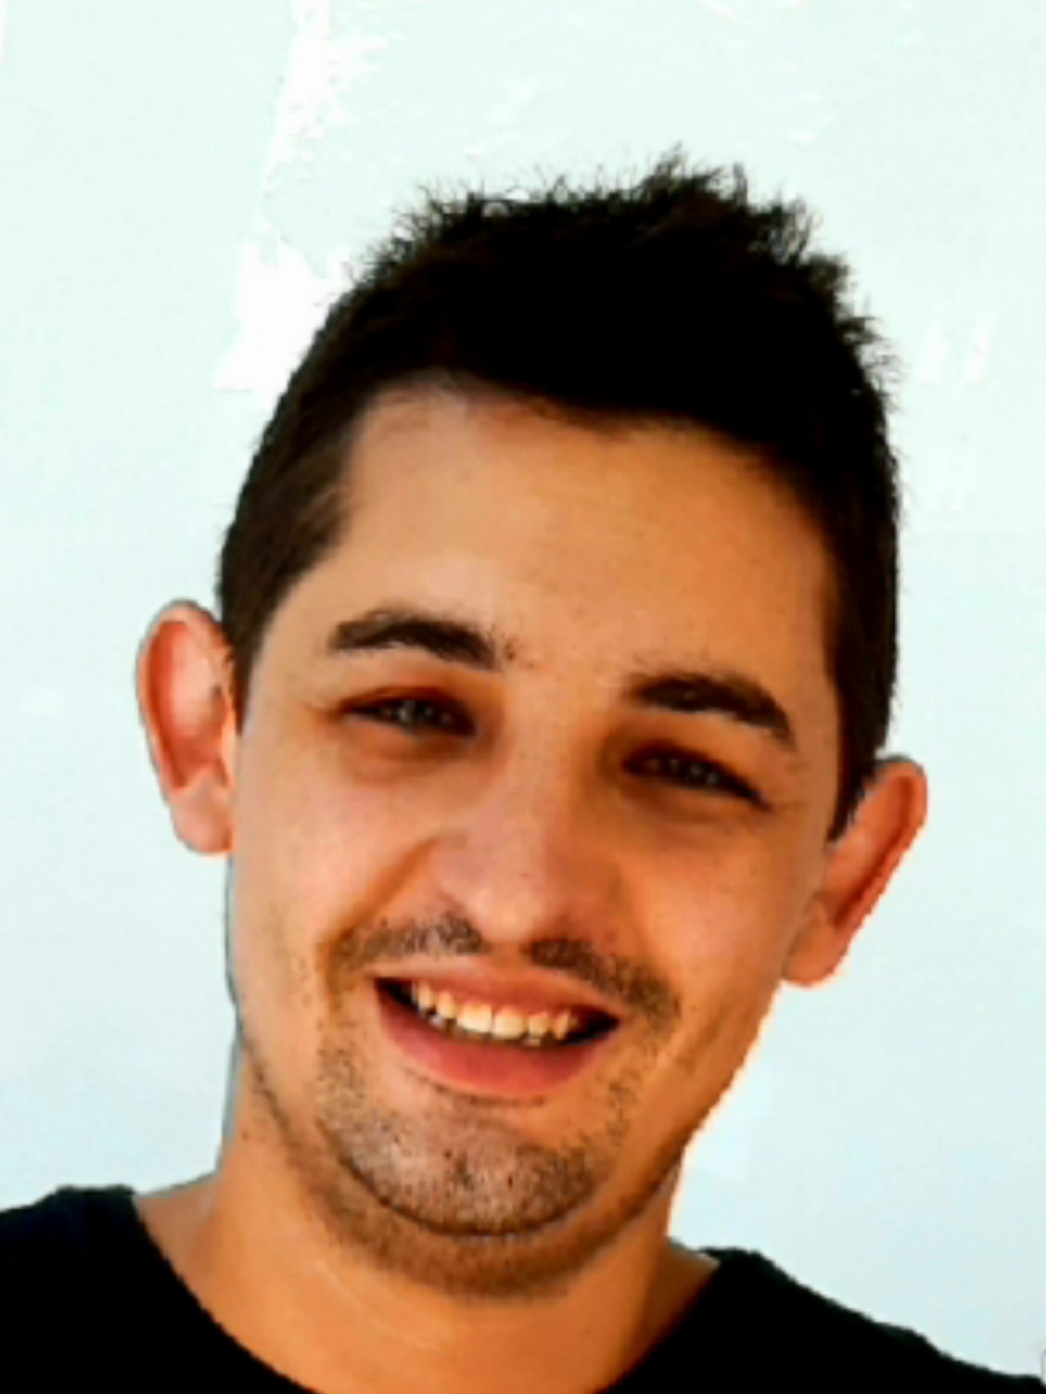
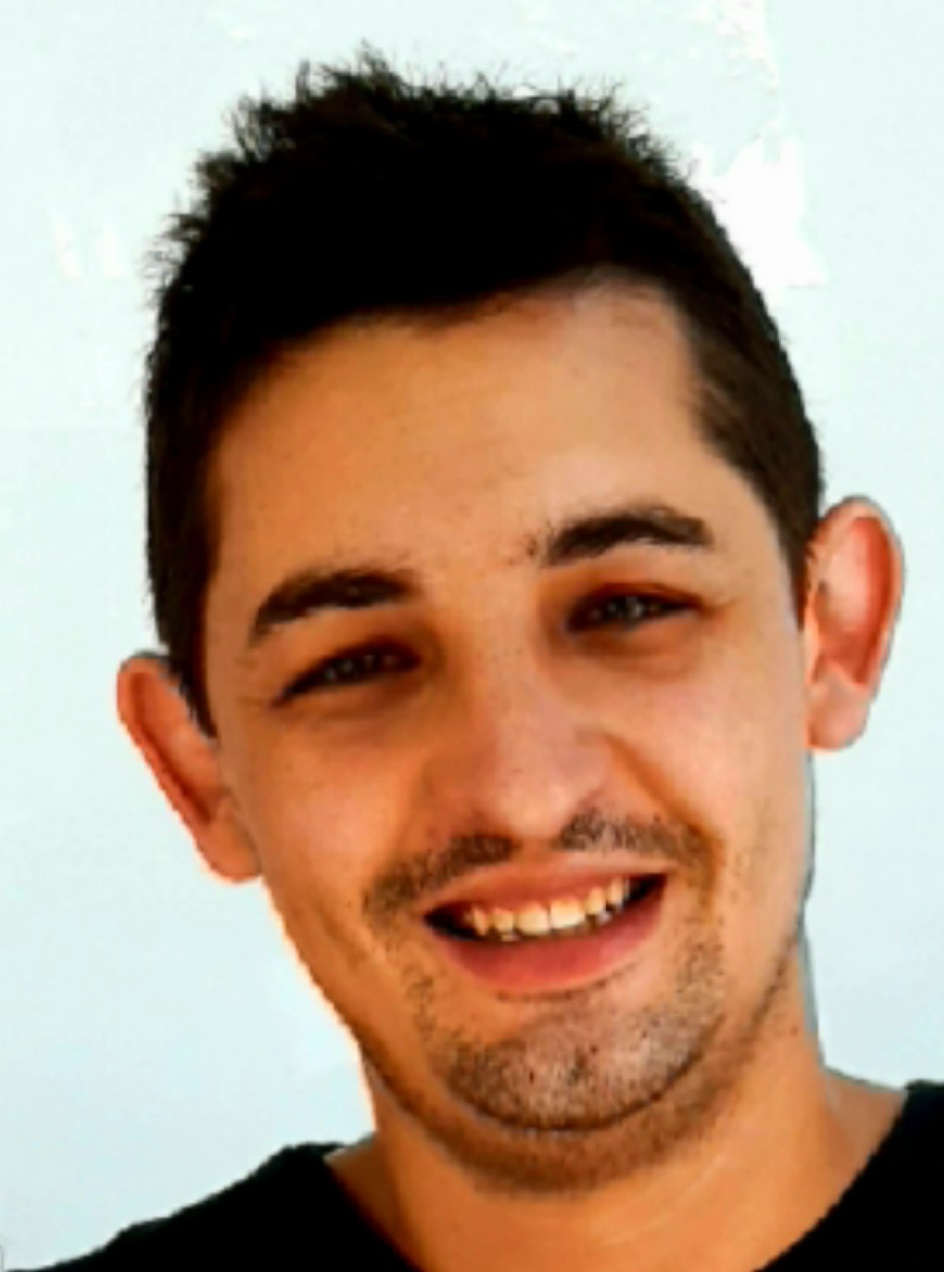
habilidades listas

diff --git a/PorfolioBER/src/app/components/skills/skills.component.html b/PorfolioBER/src/app/components/skills/skills.component.html
@@ -1,0 +1,95 @@
+<div class="row">
+    <div class="col-lg-11">
+    <h1>Habilidades </h1>
+    </div>
+    <div class="textcenter col-xs-4 col-sm-4 col-md-4 col-lg-4">
+        <circle-progress
+            [percent]="70"
+            [radius]="74"
+            [maxPercent]="100"
+            [title]="'HTML'"
+            [titleFontSize]="'2em'"
+            [outerStrokeColor]= "'#57a6a6'"
+            [innerStrokeColor]= "'#9edcdc'"
+            [animationDuration]= "1100"
+            [showUnits]= "false"
+            [clockwise]= "false"
+            [showSubtitle]="false"
+        ></circle-progress>
+    </div>
+    <div class="textcenter col-xs-4 col-sm-4 col-md-4 col-lg-4">
+        <circle-progress
+            [percent]="70"
+            [radius]="74"
+            [maxPercent]="100"
+            [title]="'HTML'"
+            [titleFontSize]="'2em'"
+            [outerStrokeColor]= "'#57a6a6'"
+            [innerStrokeColor]= "'#9edcdc'"
+            [animationDuration]= "1100"
+            [showUnits]= "false"
+            [clockwise]= "false"
+            [showSubtitle]="false"
+        ></circle-progress>
+    </div>
+    <div class="textcenter col-xs-4 col-sm-4 col-md-4 col-lg-4">
+        <circle-progress
+            [percent]="70"
+            [radius]="74"
+            [maxPercent]="100"
+            [title]="'HTML'"
+            [titleFontSize]="'2em'"
+            [outerStrokeColor]= "'#57a6a6'"
+            [innerStrokeColor]= "'#9edcdc'"
+            [animationDuration]= "1100"
+            [showUnits]= "false"
+            [clockwise]= "false"
+            [showSubtitle]="false"
+        ></circle-progress>
+    </div>
+    <div class="textcenter col-xs-4 col-sm-4 col-md-4 col-lg-4">
+        <circle-progress
+            [percent]="70"
+            [radius]="74"
+            [maxPercent]="100"
+            [title]="'HTML'"
+            [titleFontSize]="'2em'"
+            [outerStrokeColor]= "'#57a6a6'"
+            [innerStrokeColor]= "'#9edcdc'"
+            [animationDuration]= "1100"
+            [showUnits]= "false"
+            [clockwise]= "false"
+            [showSubtitle]="false"
+        ></circle-progress>
+    </div>
+    <div class="textcenter col-xs-4 col-sm-4 col-md-4 col-lg-4">
+        <circle-progress
+            [percent]="70"
+            [radius]="74"
+            [maxPercent]="100"
+            [title]="'HTML'"
+            [titleFontSize]="'2em'"
+            [outerStrokeColor]= "'#57a6a6'"
+            [innerStrokeColor]= "'#9edcdc'"
+            [animationDuration]= "1100"
+            [showUnits]= "false"
+            [clockwise]= "false"
+            [showSubtitle]="false"
+        ></circle-progress>
+    </div>
+    <div class="col-xs-4 col-sm-4 col-md-4 col-lg-4">
+        <circle-progress
+            [percent]="70"
+            [radius]="74"
+            [maxPercent]="100"
+            [title]="'HTML'"
+            [titleFontSize]="'2em'"
+            [outerStrokeColor]= "'#57a6a6'"
+            [innerStrokeColor]= "'#9edcdc'"
+            [animationDuration]= "1100"
+            [showUnits]= "false"
+            [clockwise]= "false"
+            [showSubtitle]="false"
+        ></circle-progress>
+    </div>
+</div>

diff --git a/PorfolioBER/src/app/components/socialmedia/socialmedia.component.html b/PorfolioBER/src/app/components/socialmedia/socialmedia.component.html
@@ -1,10 +1,10 @@
 <div>
+    <a href="mailto:brunoezerossi@gmail.com"><img src="../../../assets/gmail_icon-icons.com_65438.png" id="Gmail"></a>
     <a href="https://www.facebook.com/brunao74"><img src="../../../assets/fb_icon-icons.com_65434.png" id="Facebook"></a>
     <a href="https://www.instagram.com/brunao74"><img src="../../../assets/Instagram_Rounded_icon-icons.com_61576.png" id="Instagram"></a>
     <a href="https://twitter.com/brunao74"><img src="../../../assets/social_Twitter_38.png" id="Twitter"></a>
     <a href="https://www.youtube.com/channel/UCmr-amqMwMxogLtoZU48JIw"><img src="../../../assets/social_youtube_23.png" id="YouTube"></a>
     <a href="https://www.reddit.com/user/brunao74"><img src="../../../assets/reddit_black_logo_icon_147088.png" id="Reddit"></a>
-    <a href="https://github.com/Brunao74"><img src="../../../assets/github_original_wordmark_logo_icon_146506.png" id="GitHub"></a>
     <a href="https://www.linkedin.com/in/brunoerossi/"><img src="../../../assets/sociallinkedin_member_70.png" id="Linkedin"></a>
-    <a href="mailto:brunoezerossi@gmail.com"><img src="../../../assets/gmail_icon-icons.com_65438.png" id="Gmail"></a>
-</div>
+    <a href="https://github.com/Brunao74"><img src="../../../assets/github_original_wordmark_logo_icon_146506.png" id="GitHub"></a>
+    </div>

diff --git a/PorfolioBER/src/app/app.module.ts b/PorfolioBER/src/app/app.module.ts
@@ -11,6 +11,7 @@ import { AcercaDeComponent } from './components/acerca-de/acerca-de.component';
 import { ExperienciaComponent } from './components/experiencia/experiencia.component';
 import { EducacionComponent } from './components/educacion/educacion.component';
 import { NgCircleProgressModule } from 'ng-circle-progress';
+import { SkillsComponent } from './components/skills/skills.component';
 
 @NgModule({
   declarations: [
@@ -21,19 +22,13 @@ import { NgCircleProgressModule } from 'ng-circle-progress';
     BannerComponent,
     AcercaDeComponent,
     ExperienciaComponent,
-    EducacionComponent
+    EducacionComponent,
+    SkillsComponent,
   ],
   imports: [
     BrowserModule,
     AppRoutingModule,
-    NgCircleProgressModule.forRoot({
-      radius: 100,
-      outerStrokeWidth: 16,
-      innerStrokeWidth: 8,
-      outerStrokeColor: "#78C000",
-      innerStrokeColor: "#C7E596",
-      animationDuration: 300,
-    }),
+    NgCircleProgressModule.forRoot({ }),
   ],
   providers: [],
   bootstrap: [AppComponent]

diff --git a/PorfolioBER/src/app/components/acerca-de/acerca-de.component.html b/PorfolioBER/src/app/components/acerca-de/acerca-de.component.html
@@ -1,9 +1,9 @@
     <div class="row">
-        <div class="col-xs-6 col-sm-6 col-md-3 col-lg-3">
-            <img src="../../../assets/perfilBruno.jpg" class="img-fluid" id="pefilB" alt="">
+        <div class="col-xs-3 col-sm-3 col-md-3 col-lg-3">
+            <img id="fotoB" src="../../../assets/perfilBruno.jpg" class="img-fluid" id="pefilB" alt="">
         </div>
         <div class="col-xs-6 col-sm-6 col-md-3 col-lg-3">
-            <p id="nombre">ROSSI, Bruno Ezequiel</p>
+            <p id="nombre">ROSSI PUCHETA, Bruno Ezequiel</p>
             <p> Full Stack Web Developer Jr. </p>
         </div>
         <div class="col-xs-12 col-sm-12 col-md-6 col-lg-6">

diff --git a/PorfolioBER/src/app/components/skills/skills.component.spec.ts b/PorfolioBER/src/app/components/skills/skills.component.spec.ts
@@ -1,0 +1,25 @@
+import { ComponentFixture, TestBed } from '@angular/core/testing';
+
+import { SkillsComponent } from './skills.component';
+
+describe('SkillsComponent', () => {
+  let component: SkillsComponent;
+  let fixture: ComponentFixture<SkillsComponent>;
+
+  beforeEach(async () => {
+    await TestBed.configureTestingModule({
+      declarations: [ SkillsComponent ]
+    })
+    .compileComponents();
+  });
+
+  beforeEach(() => {
+    fixture = TestBed.createComponent(SkillsComponent);
+    component = fixture.componentInstance;
+    fixture.detectChanges();
+  });
+
+  it('should create', () => {
+    expect(component).toBeTruthy();
+  });
+});

diff --git a/PorfolioBER/src/app/components/skills/skills.component.ts b/PorfolioBER/src/app/components/skills/skills.component.ts
@@ -1,0 +1,15 @@
+import { Component, OnInit } from '@angular/core';
+
+@Component({
+  selector: 'app-skills',
+  templateUrl: './skills.component.html',
+  styleUrls: ['./skills.component.css']
+})
+export class SkillsComponent implements OnInit {
+
+  constructor() { }
+
+  ngOnInit(): void {
+  }
+
+}

diff --git a/PorfolioBER/src/app/components/acerca-de/acerca-de.component.css b/PorfolioBER/src/app/components/acerca-de/acerca-de.component.css
@@ -1,8 +1,14 @@
 div{
-    background-color: rgb(38, 71, 180);
+    background-color: beige;
     text-align: justify;
+    padding: 1%;
+}
+#fotoB{
+    max-width: 10%;
+    max-height: 10%;
 }
 #nombre{
     font-weight: bolder;
+    font-style: italic;
     margin-top: 10%;
 }

diff --git a/PorfolioBER/src/index.html b/PorfolioBER/src/index.html
@@ -13,6 +13,8 @@
     <!-- Bootstrap CSS -->
 
     <link href="dist/bootstrap/css/bootstrap.min.css" rel="stylesheet">
+
+
    </head>
   <title>PorfolioBER</title>
   <base href="/">

diff --git a/PorfolioBER/src/app/components/experiencia/experiencia.component.css b/PorfolioBER/src/app/components/experiencia/experiencia.component.css
@@ -1,8 +1,8 @@
 .row{
-    padding: 30px;
+    padding: 50px;
 }
 div{
-    background-color: rgb(38, 71, 180);
+    background-color: tomato;
 }
 h1,h3 {
     display: inline;

diff --git a/PorfolioBER/src/app/components/educacion/educacion.component.css b/PorfolioBER/src/app/components/educacion/educacion.component.css
@@ -1,8 +1,8 @@
 .row{
-    padding: 30px;
+    padding: 50px;
 }
 div{
-    background-color: rgb(38, 71, 180);
+    background-color: beige;
 }
 h1,h3 {
     display: inline;

diff --git a/PorfolioBER/src/app/components/banner/banner.component.html b/PorfolioBER/src/app/components/banner/banner.component.html
@@ -1,1 +1,3 @@
-<img src="../../../assets/banner.jpg" id="banner"> 
+<div class="container-fluid">
+    <img src="../../../assets/banner.jpg" id="banner"> 
+</div>

diff --git a/PorfolioBER/src/app/components/educacion/educacion.component.html b/PorfolioBER/src/app/components/educacion/educacion.component.html
@@ -1,5 +1,5 @@
 <div class="row">
-    <h1>Experiencia Laboral
+    <h1>Educacion
         <div class="col-lg-11">
             <ul>
                 <li>
